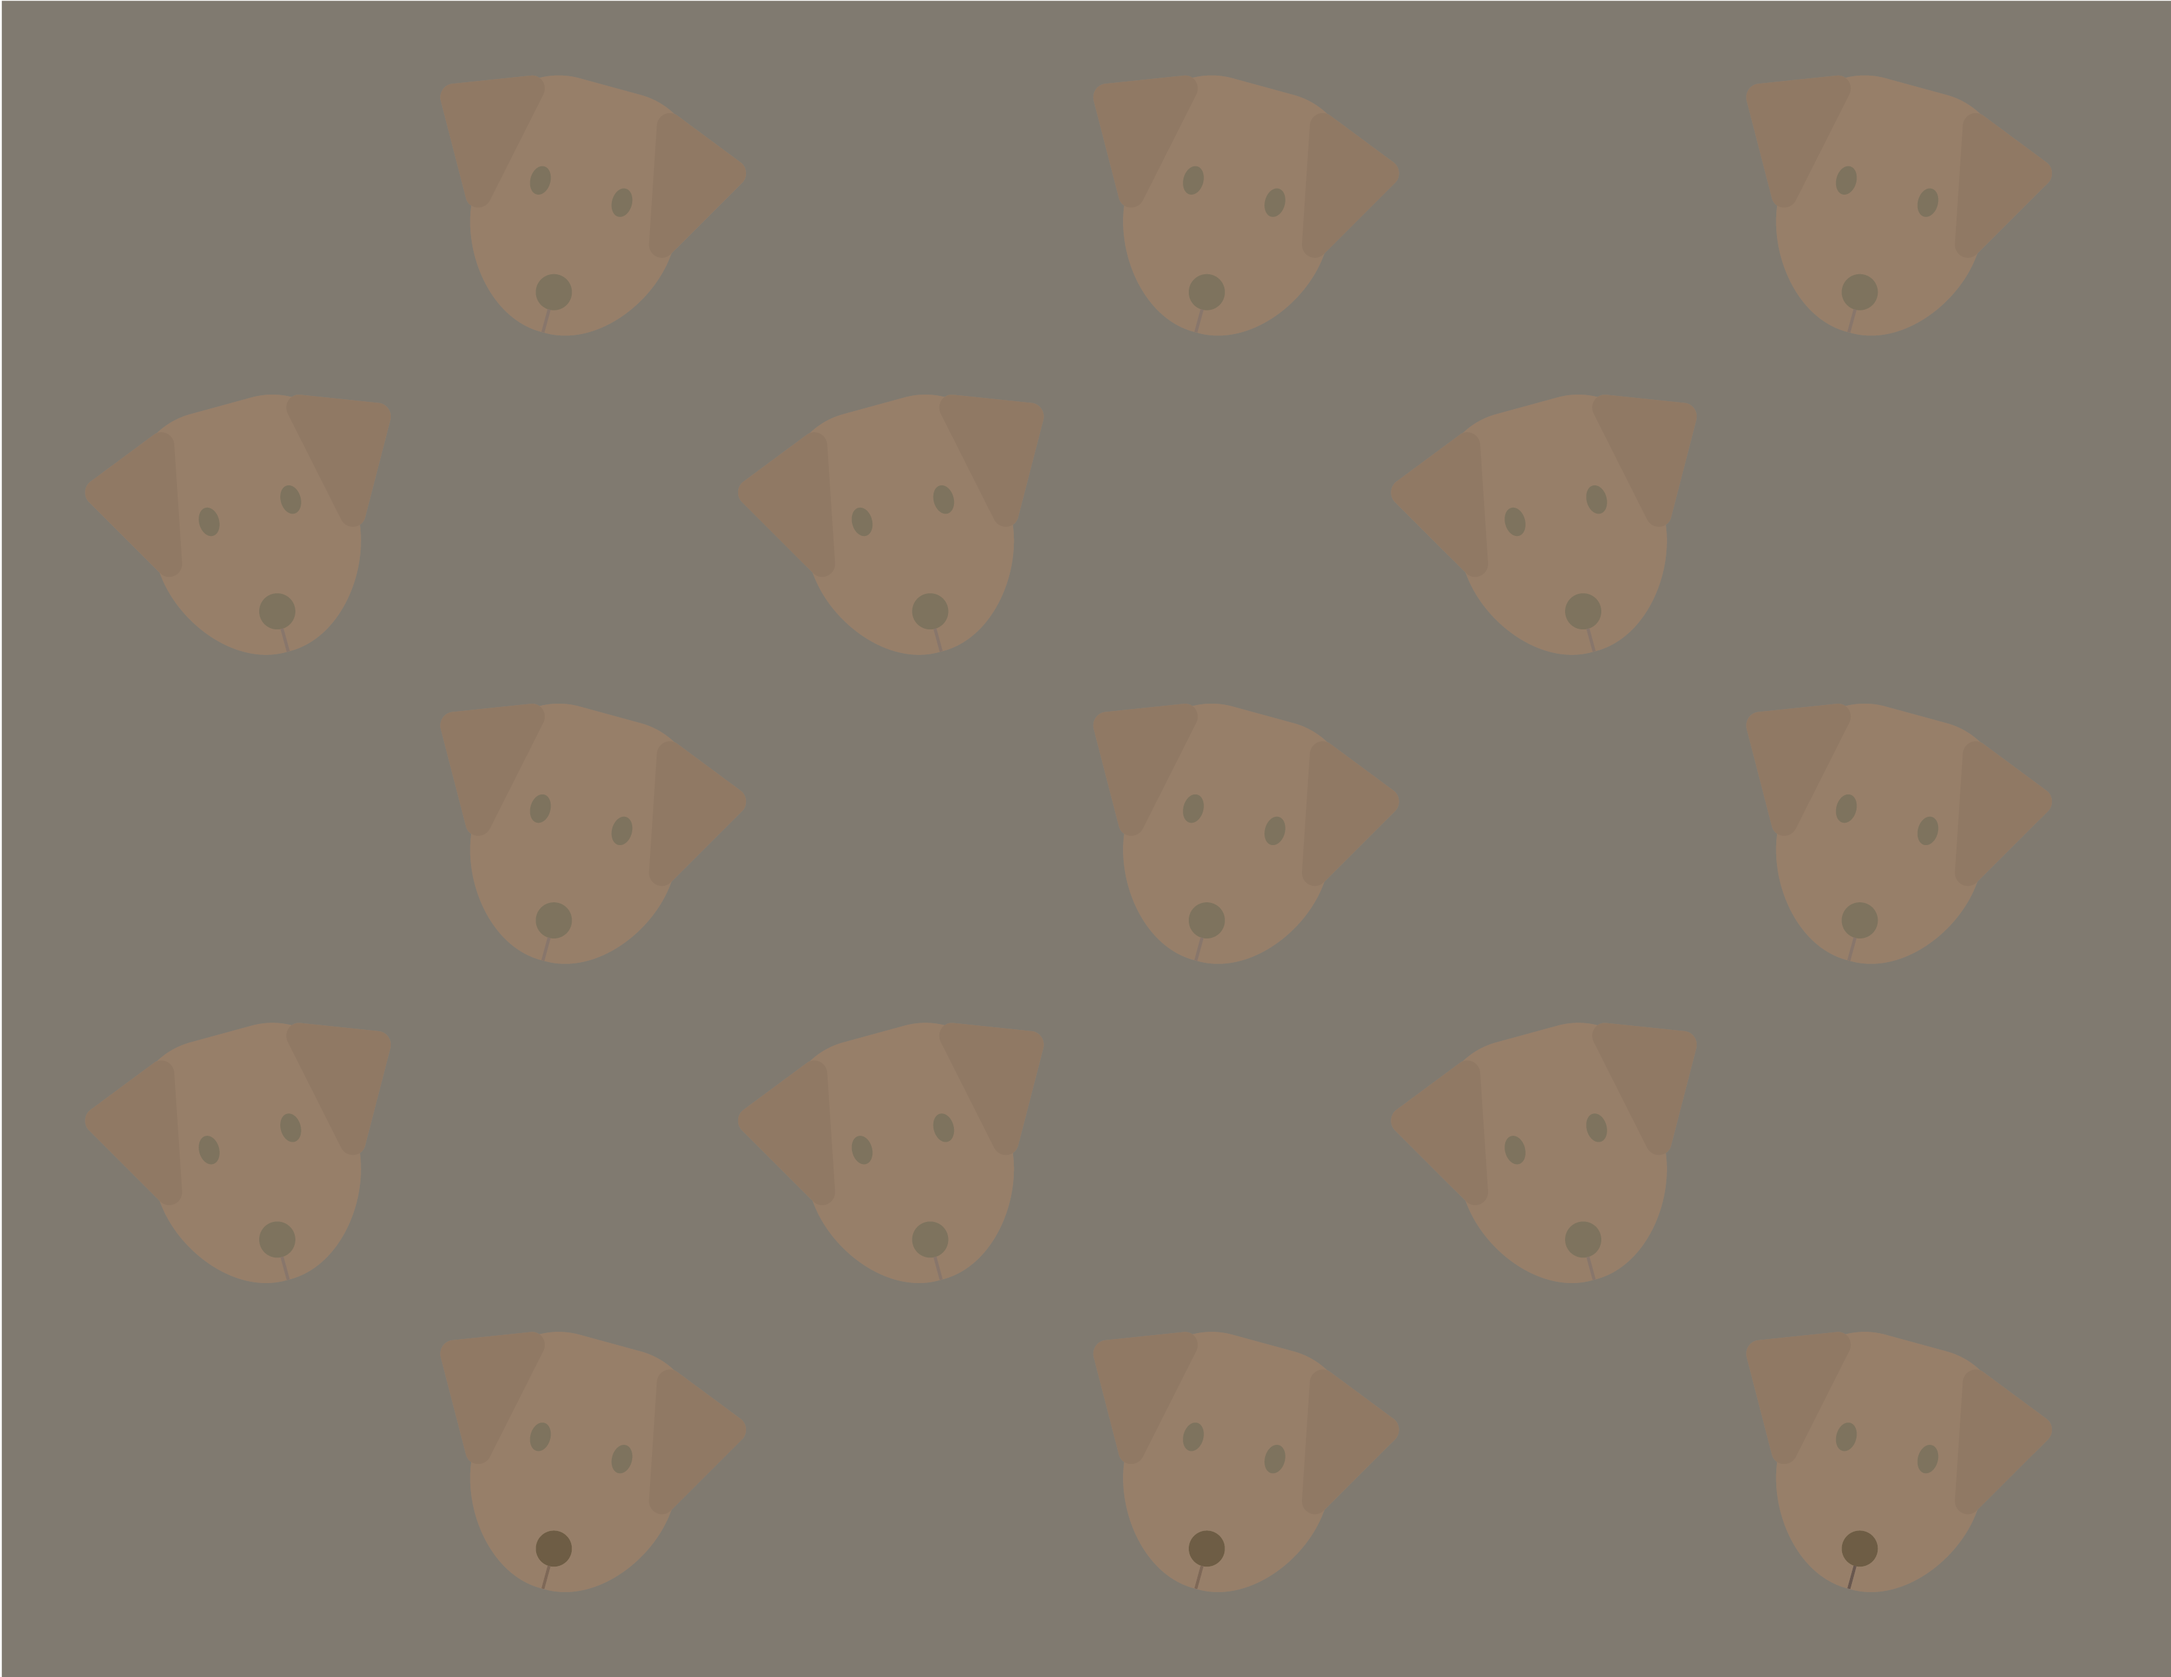
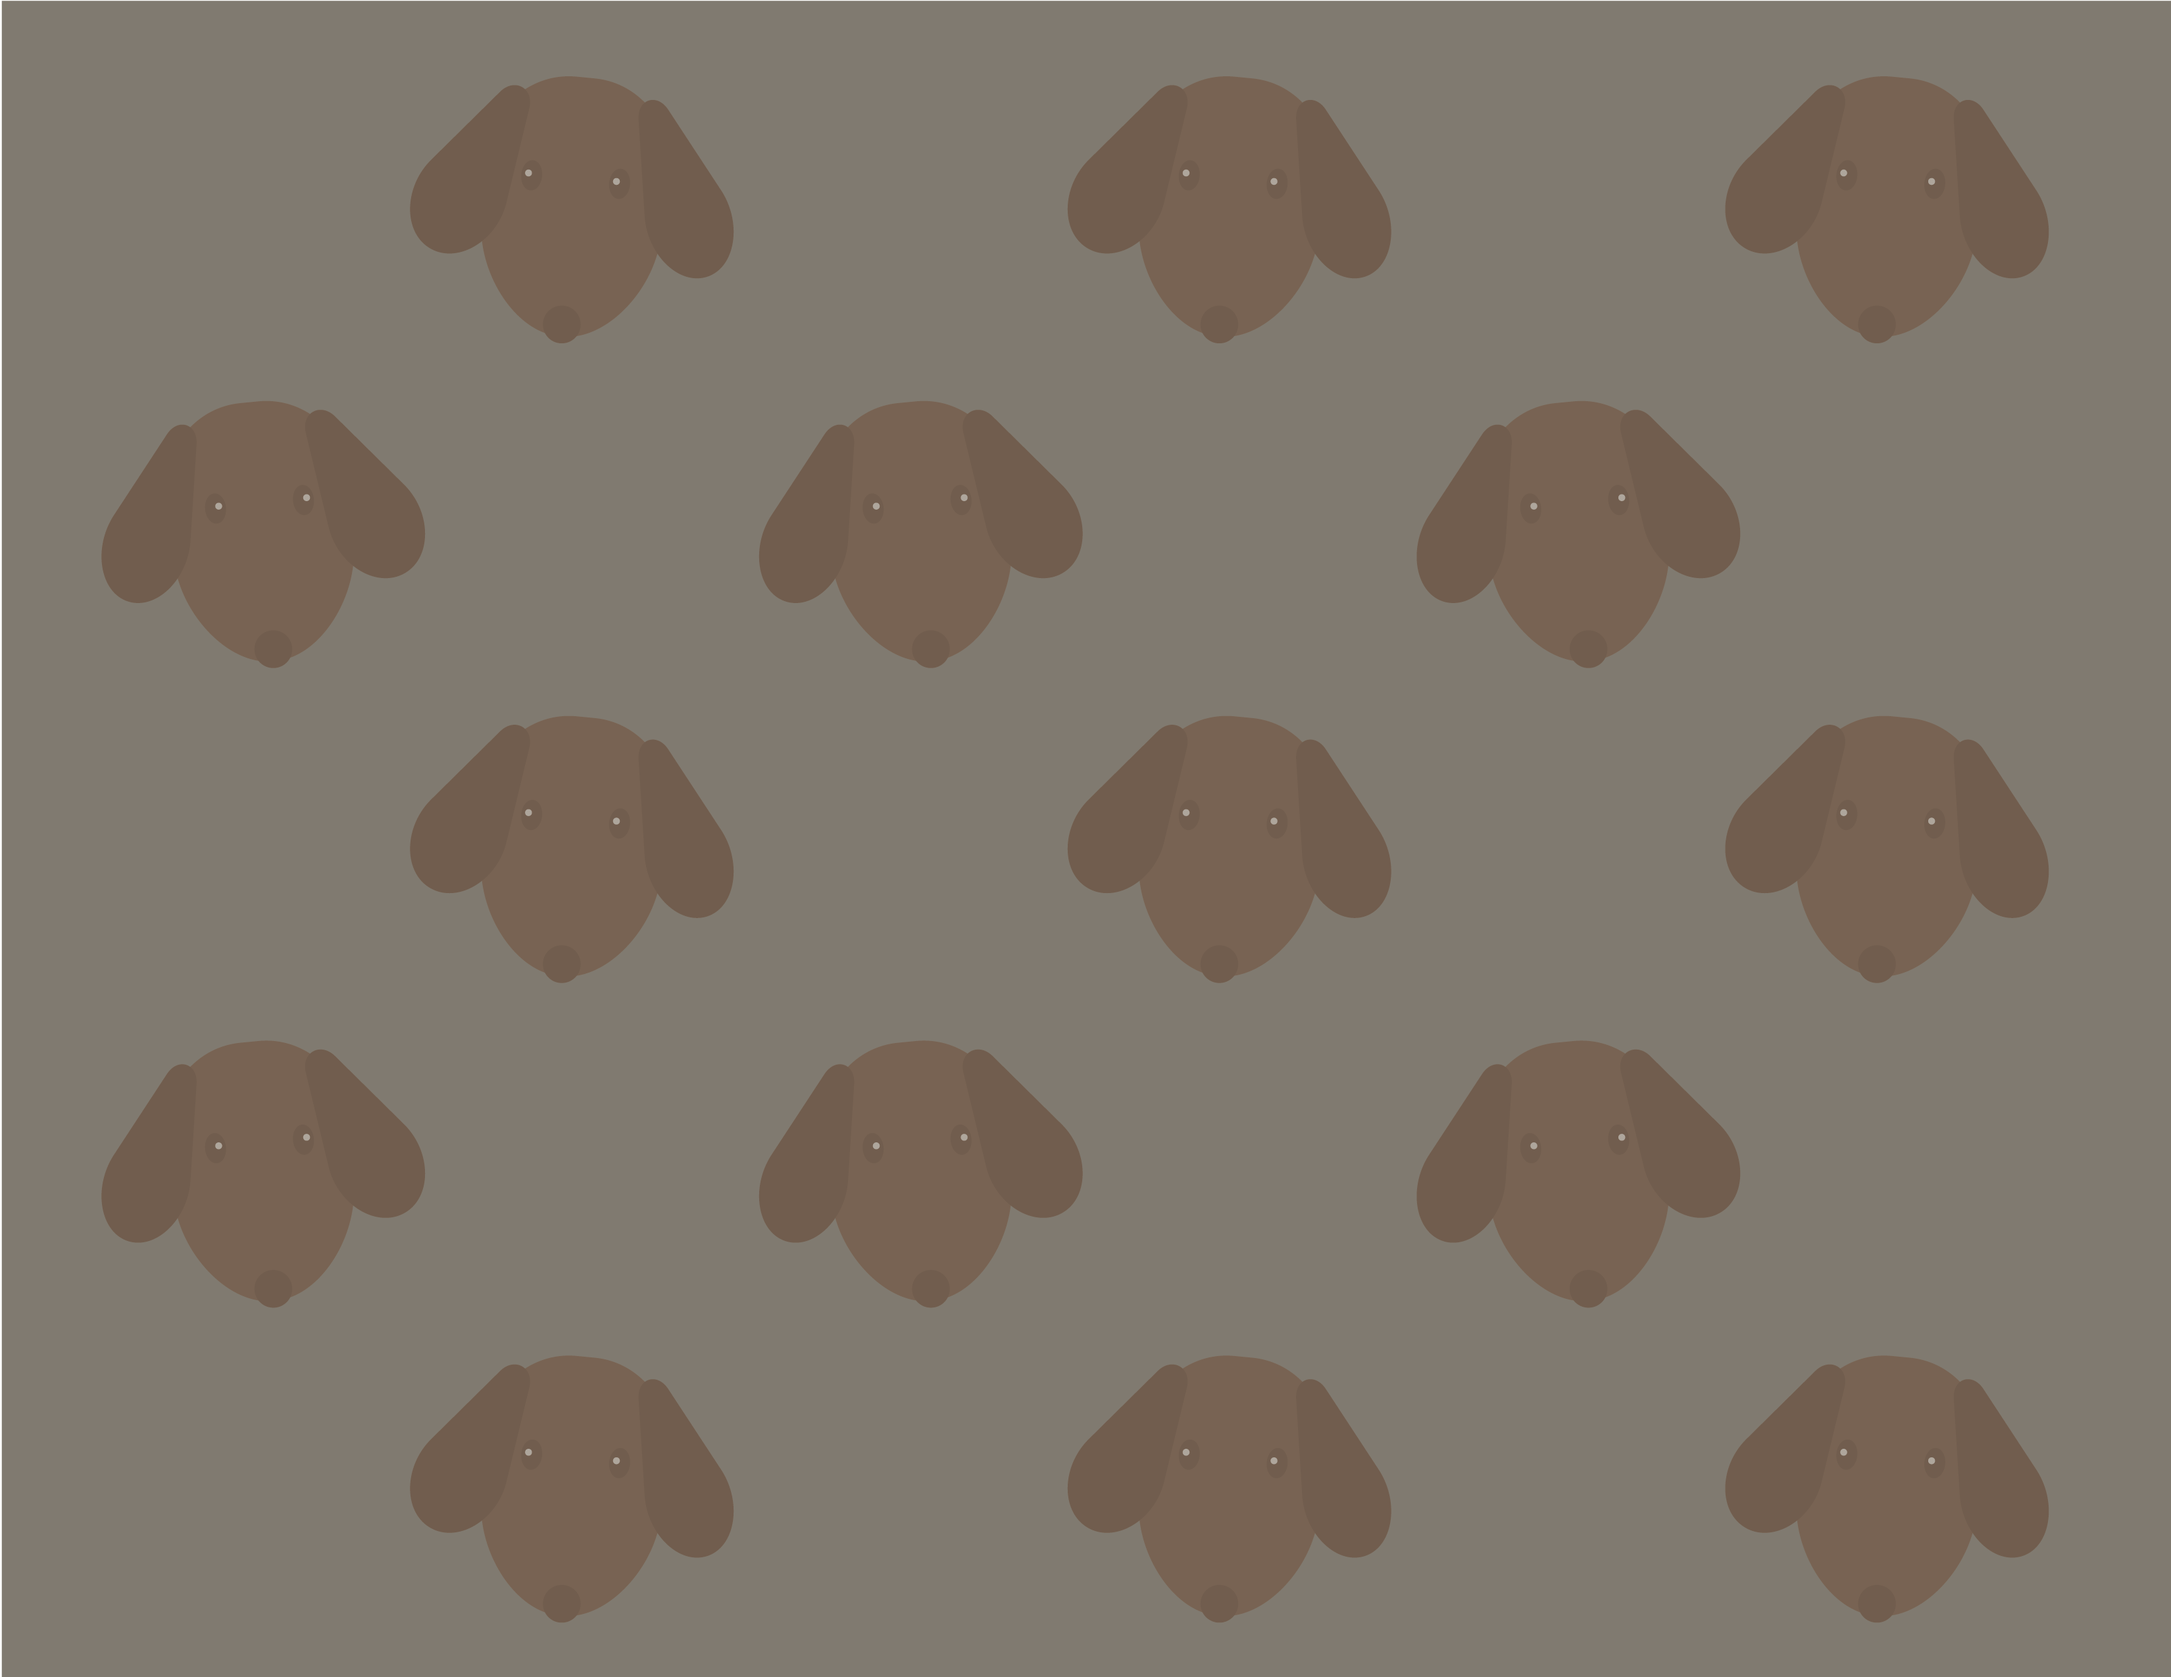
update

diff --git a/entry7.html b/entry7.html
@@ -124,9 +124,16 @@ a {
 <h1 class="open-sans-bold">Pet Owners</h1>
 
 <div class="container">
-  <p class="text">A brown dog</p>
+  <p class="text">An elderly lady</p>
 </div>
 
 
-<p class="courier-prime-regular" style="text-align: left;">sits in between the legs of a woman, wandering around the space in the subway.
+<p class="courier-prime-regular" style="text-align: left;">with a dachshund laying peacefully across her lap. She had a book<br>
+  resting on the dog's back, casually flipping the pages as she read. <br>
+  The dachshund was so adorable that it caught the attention of many <br>nearby passengers, who can't stop smiling while looking at the dog.
 </p>
+
+<div class="image-wrapper">
+  <img src="images/granny.png" alt="Petowner" class="image image1" height="500">
+  <img src="images/granny2.png" alt="Petowner" class="image image2" height="500">
+</div>
